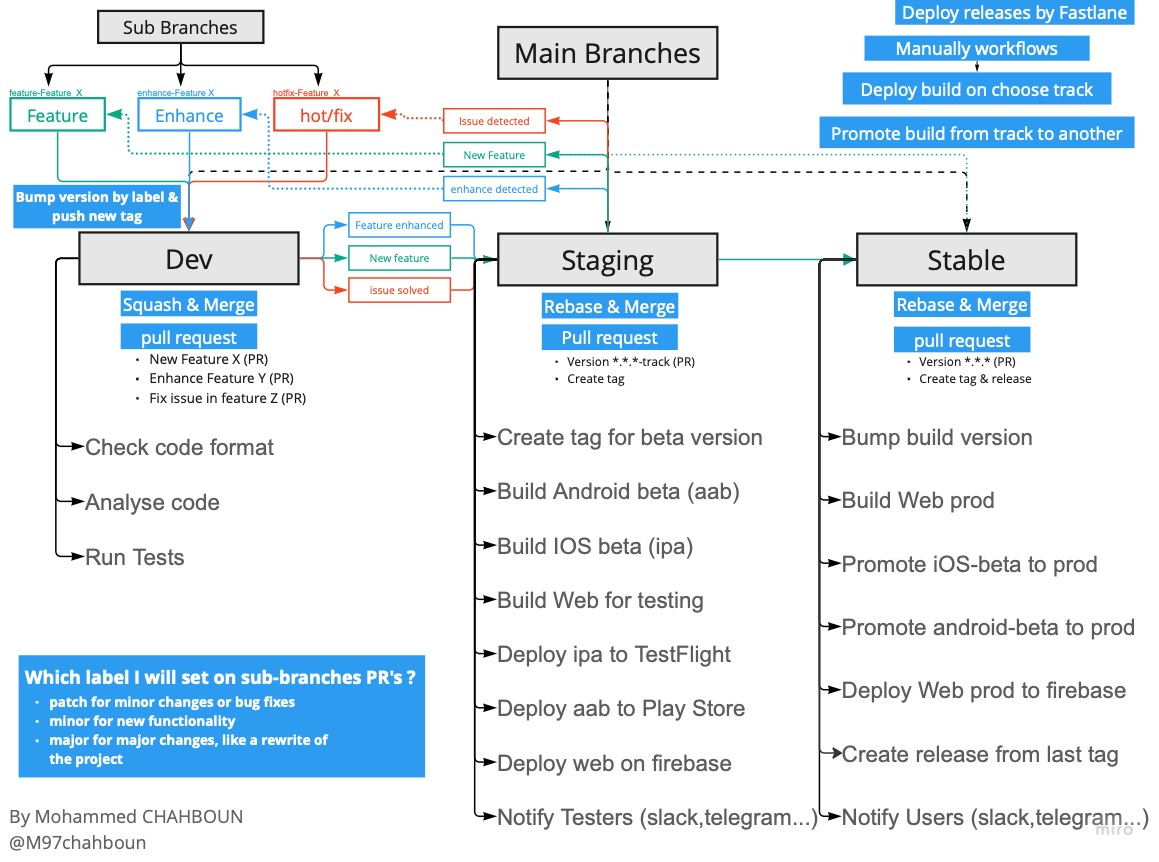
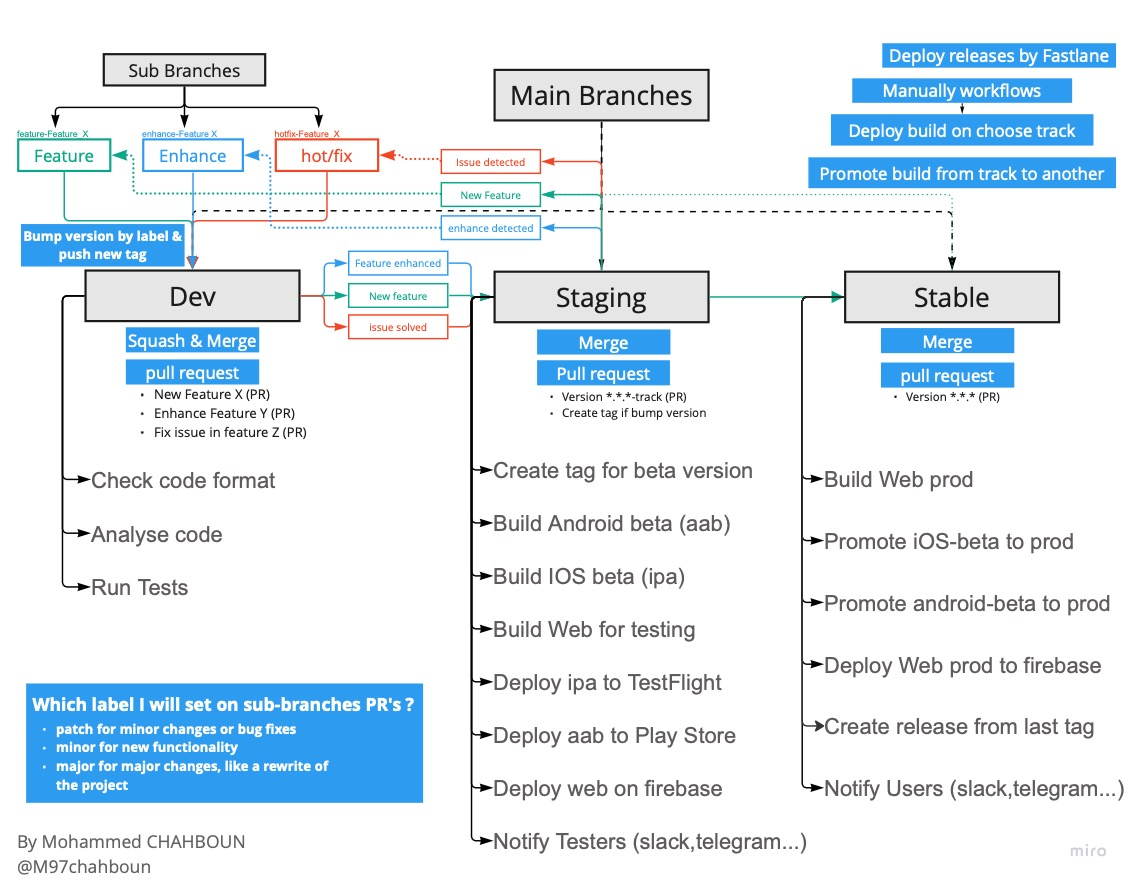
Add todo section on readme & add condition on bump version workflow (#115)
* Add condition for bump version

* Ass todo section

* Update repo workflow

* Fix bump version issue

Changed region(s): [[0.0, 0.0, 1.0, 0.9954]]

diff --git a/README.md b/README.md
@@ -11,5 +11,23 @@ CI/CD & Branching template for flutter apps.
 
 ## Repo workflow
 
-
 ![alt text](repo_workflow.jpg)
+
+
+## TODO
+- [x] Bump version based on labels when label PR on dev branch
+- [x] Create tag based on current version
+- [x] Analyze & Test Dev branch PR
+- [x] Bump build (Version code) when merge PR on staging branch
+- [x] Deploy Android to play store on testing track based on labels (default alpha) 
+- [x] Deploy Web for testing
+- [ ] Deploy IOS on Testflight for Testing
+- [ ] Notify Testers (slack, telegram...)
+- [x] Promote Android to production when merge PR on stable branch
+- [ ] Promote IOS to production when merge PR on stable branch
+- [x] Deploy Web to production when merge PR on stable branch
+- [ ] Upload desktop version on release assets (windows, linux & mac)
+- [x] Create release & generate release notes based on PR's when merge PR on stable
+- [ ] Notify Users (slack, telegram...)
+- [x] Manually Workflows for deploy & promote build
+
